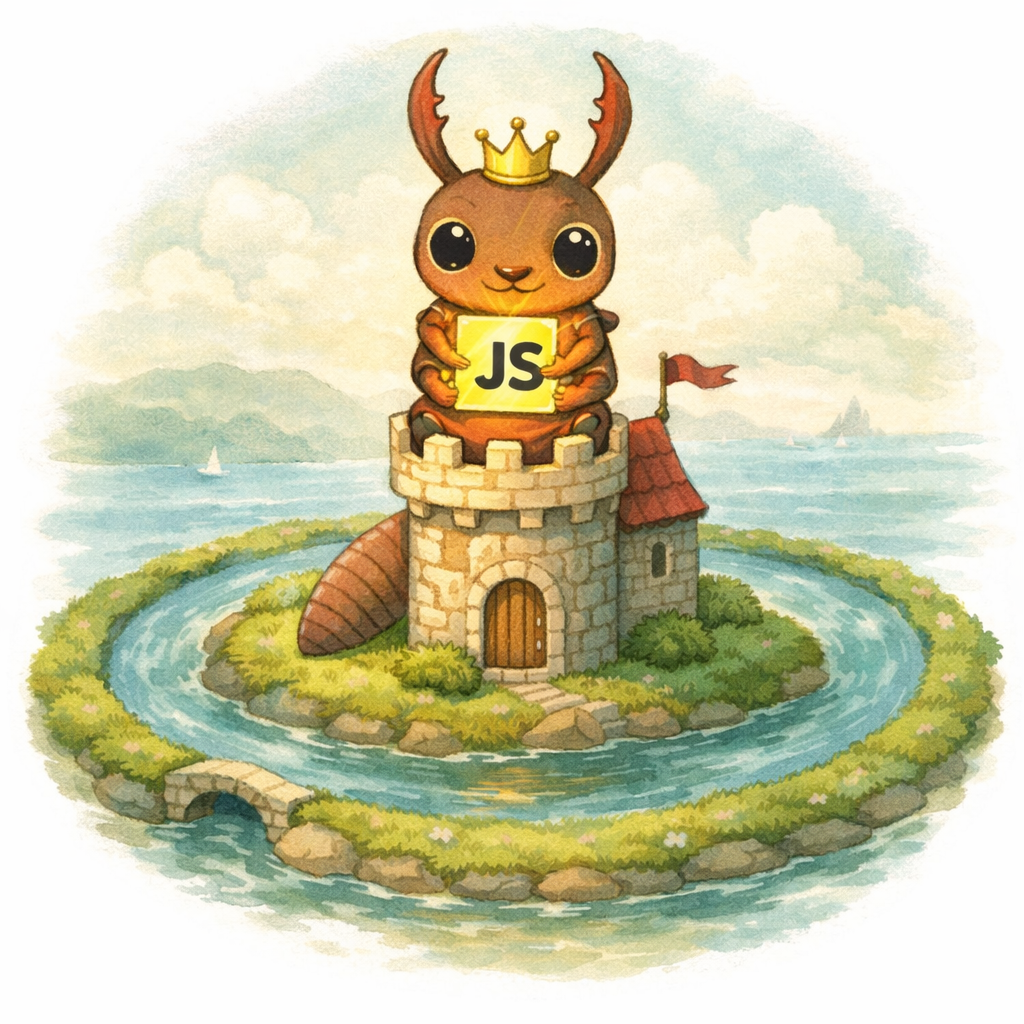
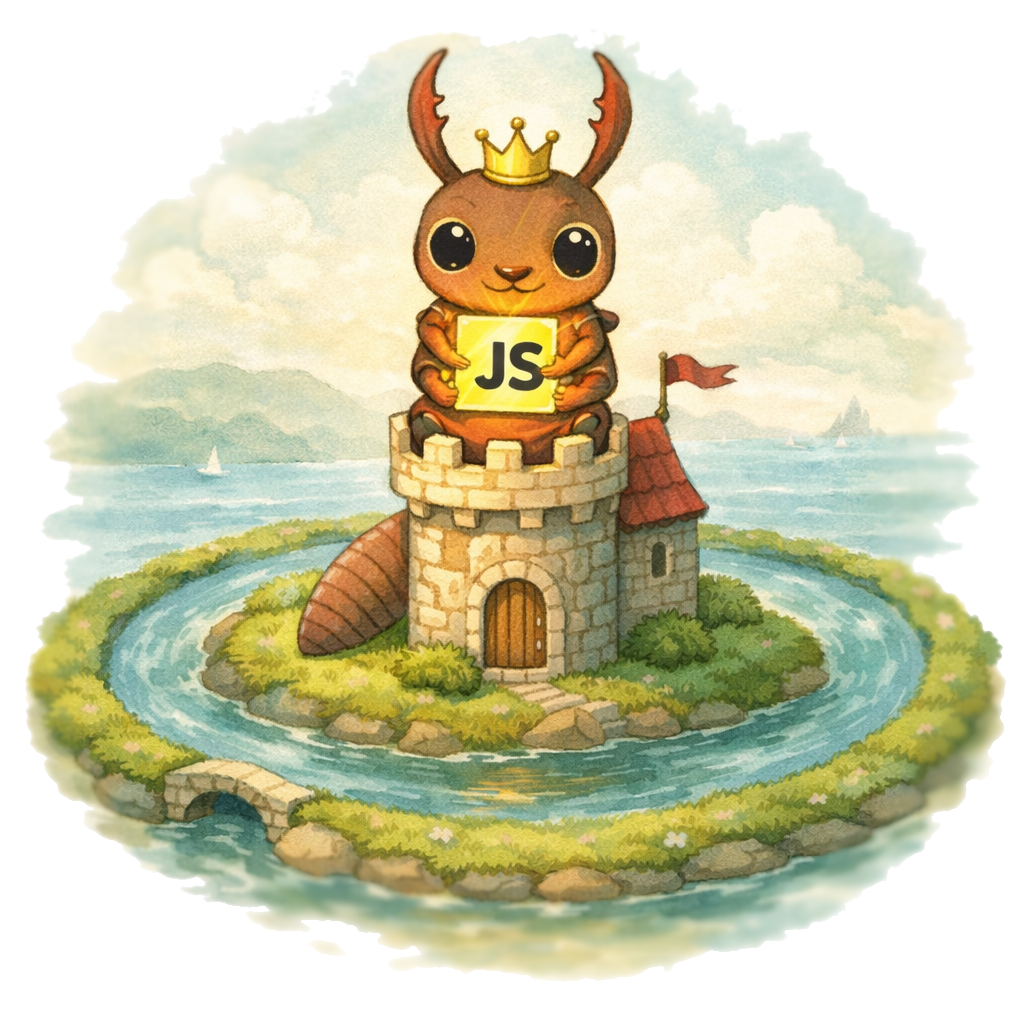
chore: update earwig asset, add config plan, gitignore local settings

diff --git a/test-config-plan.md b/test-config-plan.md
@@ -1,0 +1,176 @@
+# Config File Support — Test Plan
+
+## Unit Tests (already passing)
+
+These 12 tests exist in `crates/fastnode-core/src/dev/config.rs`:
+
+- [x] `test_find_config_file` — discovery priority order
+- [x] `test_parse_simple_config` — server/resolve/define/base fields
+- [x] `test_parse_config_with_comments` — single-line and block comments
+- [x] `test_parse_config_double_quotes` — double-quoted strings
+- [x] `test_parse_empty_config` — `export default {}`
+- [x] `test_parse_config_with_array` — config with only server.port
+- [x] `test_parse_define_with_dotted_keys` — `process.env.NODE_ENV` style keys
+- [x] `test_no_default_export` — error on missing export default
+- [x] `test_load_config_js_file` — end-to-end load from .js file
+- [x] `test_load_config_explicit_path` — `--config` explicit path
+- [x] `test_load_config_missing_explicit_path` — error on nonexistent path
+- [x] `test_strip_comments` — comment stripping utility
+
+## Integration Tests (to run)
+
+### 1. Auto-discovery: howth.config.js
+
+Create a temp project with `howth.config.js` and verify it loads.
+
+```
+mkdir /tmp/howth-test-autodiscovery
+echo 'export default { server: { port: 4444 } };' > /tmp/howth-test-autodiscovery/howth.config.js
+echo '<html><body><div id="root"></div><script type="module" src="/src/main.tsx"></script></body></html>' > /tmp/howth-test-autodiscovery/index.html
+mkdir -p /tmp/howth-test-autodiscovery/src
+echo 'console.log("hello");' > /tmp/howth-test-autodiscovery/src/main.tsx
+```
+
+**Expected:** Server prints `Loaded config from howth.config.js` and binds to port 4444.
+
+### 2. Auto-discovery: vite.config.ts
+
+```
+mkdir /tmp/howth-test-vite-ts
+cat > /tmp/howth-test-vite-ts/vite.config.ts << 'CONF'
+export default {
+  server: {
+    port: 5555,
+    host: 'localhost',
+  },
+  resolve: {
+    alias: {
+      '@': './src',
+    },
+  },
+  define: {
+    'process.env.NODE_ENV': '"development"',
+  },
+  base: '/',
+};
+CONF
+echo '<html><body><div id="root"></div><script type="module" src="/src/main.tsx"></script></body></html>' > /tmp/howth-test-vite-ts/index.html
+mkdir -p /tmp/howth-test-vite-ts/src
+echo 'console.log("hello");' > /tmp/howth-test-vite-ts/src/main.tsx
+```
+
+**Expected:** Server prints `Loaded config from vite.config.ts` and binds to port 5555.
+
+### 3. Priority order: howth.config.ts wins over vite.config.js
+
+```
+mkdir /tmp/howth-test-priority
+echo 'export default { server: { port: 6001 } };' > /tmp/howth-test-priority/howth.config.ts
+echo 'export default { server: { port: 6002 } };' > /tmp/howth-test-priority/vite.config.js
+echo '<html><body><div id="root"></div><script type="module" src="/src/main.tsx"></script></body></html>' > /tmp/howth-test-priority/index.html
+mkdir -p /tmp/howth-test-priority/src
+echo 'console.log("hello");' > /tmp/howth-test-priority/src/main.tsx
+```
+
+**Expected:** Loads `howth.config.ts` (port 6001), not `vite.config.js`.
+
+### 4. CLI `--config` flag overrides auto-discovery
+
+```
+mkdir /tmp/howth-test-cli-config
+echo 'export default { server: { port: 7001 } };' > /tmp/howth-test-cli-config/howth.config.js
+echo 'export default { server: { port: 7002 } };' > /tmp/howth-test-cli-config/custom.config.js
+echo '<html><body><div id="root"></div><script type="module" src="/src/main.tsx"></script></body></html>' > /tmp/howth-test-cli-config/index.html
+mkdir -p /tmp/howth-test-cli-config/src
+echo 'console.log("hello");' > /tmp/howth-test-cli-config/src/main.tsx
+```
+
+Run with: `howth dev src/main.tsx --config custom.config.js`
+
+**Expected:** Loads `custom.config.js` (port 7002), ignoring `howth.config.js`.
+
+### 5. CLI `--port` flag overrides config file port
+
+```
+mkdir /tmp/howth-test-cli-override
+echo 'export default { server: { port: 8001 } };' > /tmp/howth-test-cli-override/howth.config.js
+echo '<html><body><div id="root"></div><script type="module" src="/src/main.tsx"></script></body></html>' > /tmp/howth-test-cli-override/index.html
+mkdir -p /tmp/howth-test-cli-override/src
+echo 'console.log("hello");' > /tmp/howth-test-cli-override/src/main.tsx
+```
+
+Run with: `howth dev src/main.tsx --port 9999`
+
+**Expected:** Binds to port 9999, not 8001.
+
+### 6. No config file — no error
+
+```
+mkdir /tmp/howth-test-noconfig
+echo '<html><body><div id="root"></div><script type="module" src="/src/main.tsx"></script></body></html>' > /tmp/howth-test-noconfig/index.html
+mkdir -p /tmp/howth-test-noconfig/src
+echo 'console.log("hello");' > /tmp/howth-test-noconfig/src/main.tsx
+```
+
+**Expected:** Server starts on default port 3000, no config-related output.
+
+### 7. Invalid config file — warning, not crash
+
+```
+mkdir /tmp/howth-test-badconfig
+echo 'this is not valid config' > /tmp/howth-test-badconfig/howth.config.js
+echo '<html><body><div id="root"></div><script type="module" src="/src/main.tsx"></script></body></html>' > /tmp/howth-test-badconfig/index.html
+mkdir -p /tmp/howth-test-badconfig/src
+echo 'console.log("hello");' > /tmp/howth-test-badconfig/src/main.tsx
+```
+
+**Expected:** Prints warning about failed config load, server still starts on default port 3000.
+
+### 8. Config with comments and trailing commas
+
+```
+mkdir /tmp/howth-test-comments
+cat > /tmp/howth-test-comments/howth.config.js << 'CONF'
+// Howth config
+/* block comment */
+export default {
+  server: {
+    port: 4321, // trailing comma
+  },
+  resolve: {
+    alias: {
+      '@': './src', // another trailing comma
+    },
+  },
+};
+CONF
+echo '<html><body><div id="root"></div><script type="module" src="/src/main.tsx"></script></body></html>' > /tmp/howth-test-comments/index.html
+mkdir -p /tmp/howth-test-comments/src
+echo 'console.log("hello");' > /tmp/howth-test-comments/src/main.tsx
+```
+
+**Expected:** Loads successfully, port 4321.
+
+### 9. `--config` with nonexistent file — error
+
+```
+mkdir /tmp/howth-test-missing
+echo '<html><body><div id="root"></div><script type="module" src="/src/main.tsx"></script></body></html>' > /tmp/howth-test-missing/index.html
+mkdir -p /tmp/howth-test-missing/src
+echo 'console.log("hello");' > /tmp/howth-test-missing/src/main.tsx
+```
+
+Run with: `howth dev src/main.tsx --config nonexistent.js`
+
+**Expected:** Prints warning about missing config file, server still starts.
+
+## How to Run
+
+Each integration test:
+1. Set up the temp directory (commands above)
+2. `cd /tmp/howth-test-*` and run `howth dev src/main.tsx`
+3. Check stdout for expected output
+4. Ctrl+C to stop
+5. Clean up: `rm -rf /tmp/howth-test-*`
+
+For automated testing, each server is started in the background, output is captured for 2 seconds, then killed. We check for expected strings in the output.
